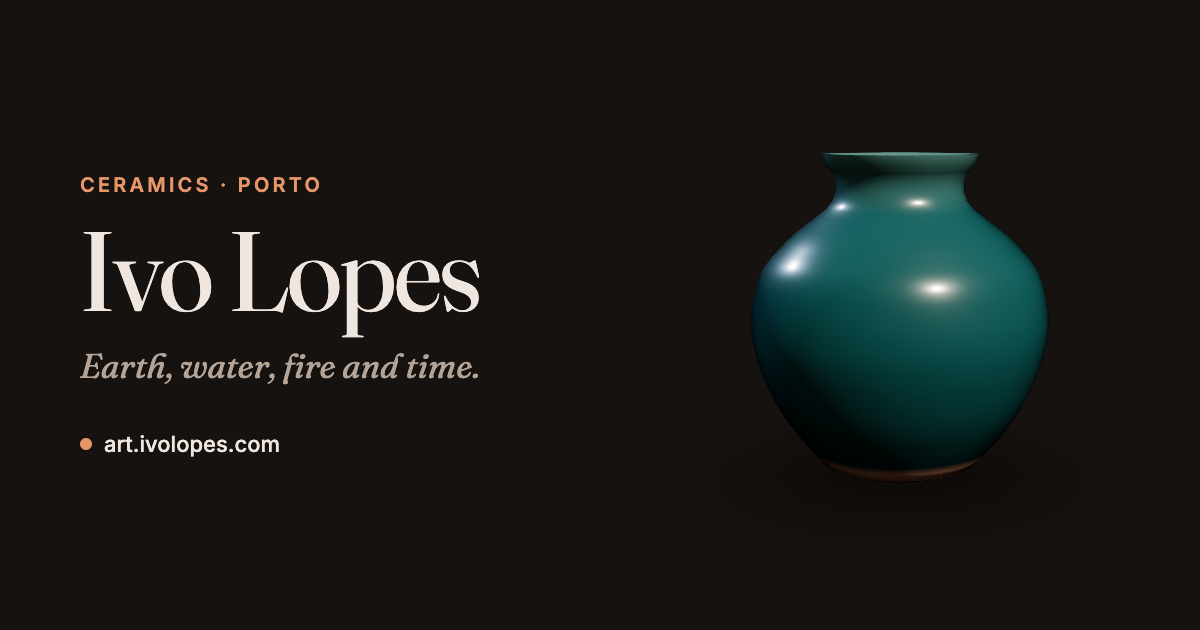
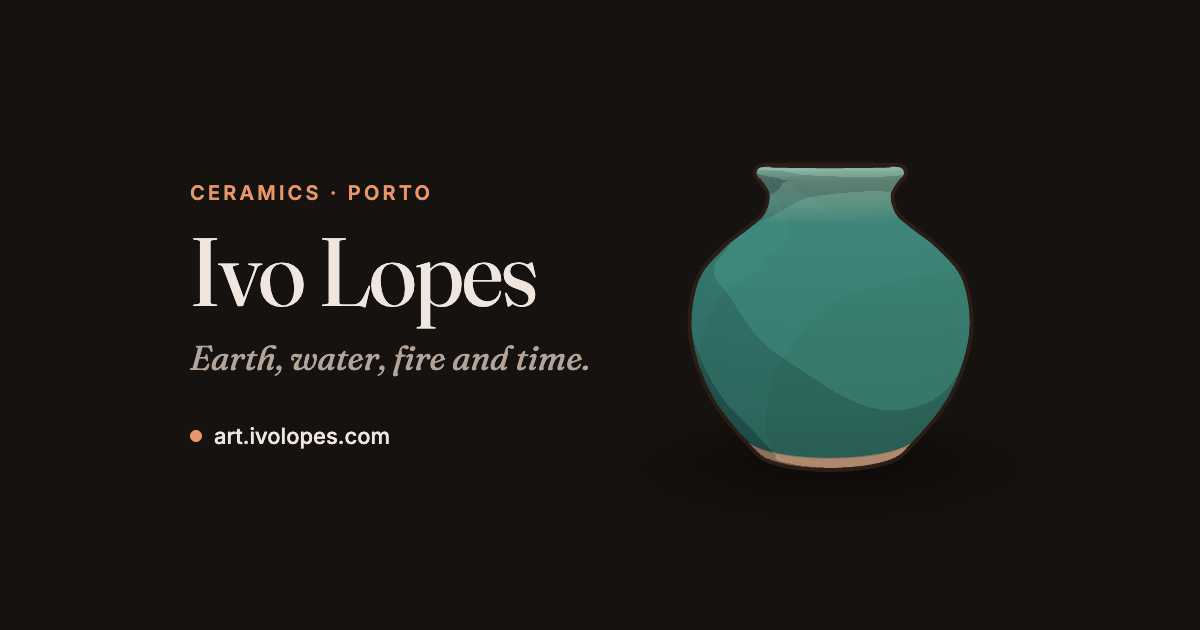
Link preview: the hand-built cel-shaded jar, centred for cropped previews
The preview still showed the old realistic jar. Re-rendered in the current
style, with the name and jar nearer the centre so apps that crop previews
to a square keep both, and ?v=2 on og:image so cached copies are dropped.

Claude-Session: https://claude.ai/code/session_016vts2yeCYib5QCUqFcUnKK

diff --git a/tools/og-card.html b/tools/og-card.html
@@ -10,13 +10,14 @@
   * { margin: 0; box-sizing: border-box; }
   html, body { width: 1200px; height: 630px; overflow: hidden; }
   body { background: #16120f; color: #efe7df; font-family: Inter, sans-serif; position: relative; }
-  .text { position: absolute; left: 80px; top: 50%; transform: translateY(-50%); width: 560px; }
+  /* Kept towards the centre: some apps crop link previews to a square. */
+  .text { position: absolute; left: 190px; top: 50%; transform: translateY(-50%); width: 520px; }
   .eyebrow { font: 600 20px Inter; letter-spacing: .16em; text-transform: uppercase; color: #e8956a; }
-  h1 { font: 400 112px/1 Fraunces, serif; letter-spacing: -0.015em; margin-top: 18px; }
+  h1 { font: 400 96px/1 Fraunces, serif; letter-spacing: -0.015em; margin-top: 18px; }
   .lead { font: italic 400 34px Fraunces, serif; color: #b3a497; margin-top: 18px; }
   .url { font: 500 22px Inter; color: #efe7df; margin-top: 44px; display: flex; align-items: center; gap: 12px; }
   .url::before { content: ""; width: 12px; height: 12px; border-radius: 50%; background: #e8956a; }
-  canvas { position: absolute; right: 0; top: 0; width: 600px; height: 630px; }
+  canvas { position: absolute; left: 600px; top: 0; width: 460px; height: 630px; }
 </style>
 </head>
 <body>
@@ -29,7 +30,7 @@
   <canvas id="clay"></canvas>
   <script type="module">
     import { createClay } from "../clay.js";
-    const clay = createClay(document.getElementById("clay"), { reducedMotion: true });
+    const clay = createClay(document.getElementById("clay"), { reducedMotion: true, style: "toon" });
     clay.setStage(7);
     setTimeout(() => { document.body.dataset.ready = "1"; }, 1200);
   </script>

diff --git a/index.html b/index.html
@@ -9,7 +9,7 @@
   <meta property="og:description" content="Earth, water, fire and time. Scroll to shape the clay.">
   <meta property="og:url" content="https://art.ivolopes.com">
   <meta property="og:type" content="website">
-  <meta property="og:image" content="https://art.ivolopes.com/og-image.png">
+  <meta property="og:image" content="https://art.ivolopes.com/og-image.png?v=2">
   <meta property="og:image:width" content="1200">
   <meta property="og:image:height" content="630">
   <meta name="twitter:card" content="summary_large_image">

diff --git a/README.md b/README.md
@@ -24,4 +24,4 @@ bisque-fired and glazed, with each step of the page's text alongside it.
 `npm test` runs the Playwright tests (both languages, scroll-to-stage, the
 kiln glow, the phone layout never covering the clay, the no-WebGL fallback,
 accessibility). CI runs them, plus a Lighthouse audit, on every push and daily.
-`npm run og` re-renders the link preview image.
+`npm run og` re-renders the link preview image: run it after any change to the clay or its style, and bump the `?v=` on `og:image` in `index.html` so chat apps fetch the new one instead of a cached copy.
